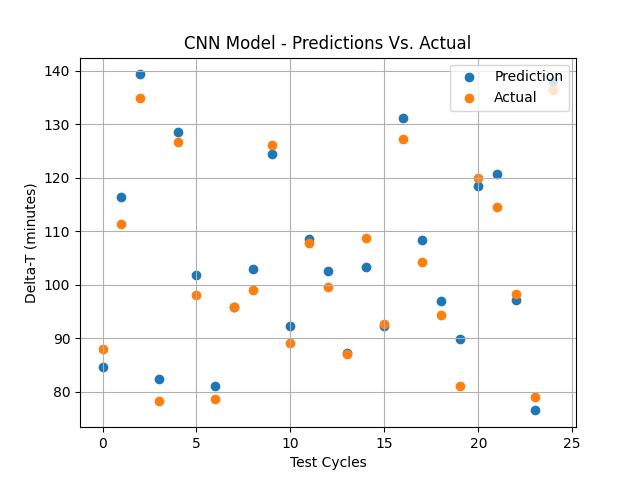
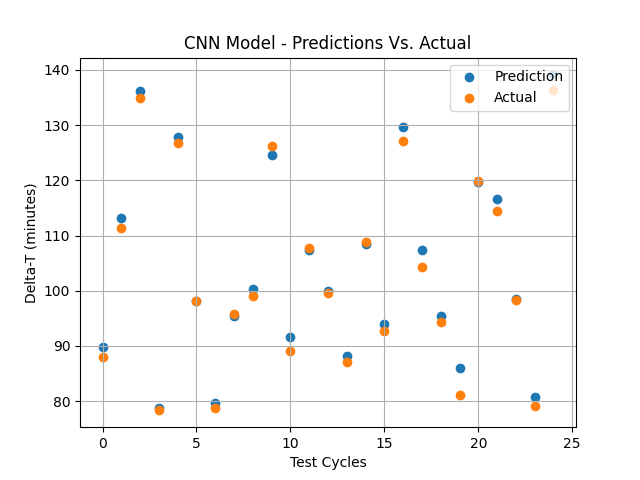
updates

diff --git a/Scripts/utilities.py b/Scripts/utilities.py
@@ -157,7 +157,9 @@ def create_cnn_model(input_shape):
     """
     inputs = Input(shape=input_shape)
     masked_inputs = Masking(mask_value=0.0)(inputs)
-    conv_out = Conv1D(filters=64, kernel_size=3, activation='relu', padding='same')(masked_inputs)
+    conv_out = Conv1D(filters=64, kernel_size=2, activation='relu', padding='same')(masked_inputs)
+    pooled_out = MaxPooling1D()(conv_out)
+    conv_out = Conv1D(filters=32, kernel_size=2, activation='relu', padding='same')(pooled_out)
     pooled_out = GlobalMaxPooling1D()(conv_out)
     outputs = Dense(1)(pooled_out)
 
